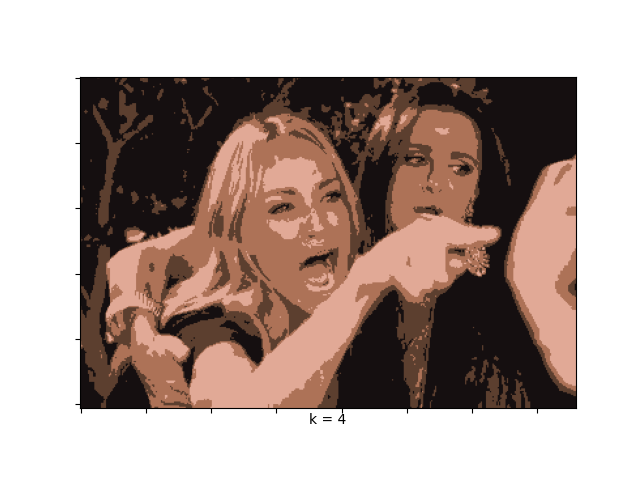
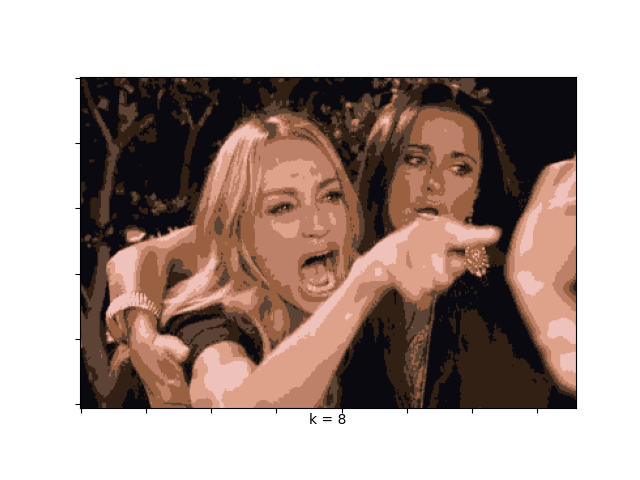
Elbow Method Implementation for choosing optimal K

diff --git a/KMeans_Exp.py b/KMeans_Exp.py
@@ -1,6 +1,7 @@
 from KMeans import KMeans
 import numpy as np
 import matplotlib.pyplot as plt
+from scipy.spatial.distance import cdist
 
 
 #=-=-=-=-=-=-=-=-=-=-
@@ -9,11 +10,11 @@ import matplotlib.pyplot as plt
 classA = -2 * np.random.rand(80,2).T
 classB = 1 + 2 * np.random.rand(40,2).T
 classC = 3 + 2 * np.random.rand(40,2).T
-print(classA,classB,classC)
+# print(classA,classB,classC)
 X = np.concatenate((classA, classB), axis=1)
 X = np.concatenate((X, classC), axis=1).T
 
-o = np.array([[-2, 2],[1, 3.5],[3, 5]]) #initialize centroids
+o = np.array([[-2, 2],[1, 3.5]]) #initialize centroids
 
 #=-=-=-=-=-=-=-=-=-=-
 #   Create and train
@@ -21,18 +22,35 @@ o = np.array([[-2, 2],[1, 3.5],[3, 5]]) #initialize centroids
 #=-=-=-=-=-=-=-=-=-=-
 
 # Three clusters with predefined intial centroid positions
-km = KMeans(n_clus = 3)
-km.fit(X, init_state = o)
+# km = KMeans(n_clus = 2)
+# km.fit(X, init_state = o)
 
-# Two clusters with random initialization
-#km = KMeans(n_clus = 2)
-#km.fit(X)
+# # Two clusters with random initialization
+# #km = KMeans(n_clus = 2)
+# #km.fit(X)
 
-#=-=-=-=-=-=-=-=-=-=-
-#   Vizualize final
-#   result and predict
-#   clusters.
-#=-=-=-=-=-=-=-=-=-=-
-point_test = np.array([[2,2], [-2,-2]])
-print(km.predict(point_test))
-km.vizualize('testing')
+# #=-=-=-=-=-=-=-=-=-=-
+# #   Vizualize final
+# #   result and predict
+# #   clusters.
+# #=-=-=-=-=-=-=-=-=-=-
+# point_test = np.array([[2,2], [-2,-2]])
+# print(km.predict(point_test))
+# km.vizualize('testing')
+distortions=[]
+
+
+K=range(1,10)
+for k in K:
+    model = KMeans(n_clus=k)
+    model.fit(X)
+    centriods=model.getCentroids()
+    print(centriods)
+    distortions.append(sum(np.min(cdist(X, centriods,'euclidean'), axis=1)) / X.shape[0])
+print(distortions)
+
+plt.plot(K, distortions, 'bx-')
+plt.xlabel('Values of K')
+plt.ylabel('Distortion')
+plt.title('The Elbow Method using Distortion')
+plt.savefig('./Segmented Images/elbow_method_.png')

diff --git a/K_Means_Seg.py b/K_Means_Seg.py
@@ -1,8 +1,30 @@
-from PIL.Image import Image
 import numpy as np
 import matplotlib.pyplot as plt
 from KMeans import KMeans
 import cv2
+from scipy.spatial.distance import cdist
+
+#Elbow Method
+np.seterr(divide='ignore', invalid='ignore')
+def elbow_method(X):
+
+    distortions=[]
+    K=range(1,10)
+    for k in K:
+        model = KMeans(n_clus=k)
+        model.fit(X)
+        centriods=model.getCentroids()
+        # print(centriods)
+        distortions.append(sum(np.min(cdist(X, centriods,'euclidean'), axis=1)) / X.shape[0])
+    # print(distortions)
+
+    plt.plot(K, distortions, 'bx-')
+    plt.xlabel('Values of K')
+    plt.ylabel('Distortion')
+    plt.title('The Elbow Method using Distortion')
+    plt.savefig('./Segmented Images/elbow_method_.png')
+    plt.clf()
+
 
 #   Image Segmentation
 
@@ -19,16 +41,16 @@ image = cv2.cvtColor(image, cv2.COLOR_BGR2RGB) #Convert to RGB
 X = image.reshape((-1,3))   #Reshape to (Npts, Ndim = 3)
 X = np.float32(X)
 # print(X)
-
+# elbow_method(X)
 # K clusters with random initialization
 # k =4
 km = KMeans(n_clus = k)
 km.fit(X)
 centers = km.getCentroids()
 clusters = km.getClusters()
-
+# print(centers)
+# print(clusters)
 segmented_image = centers[clusters]
-
 segmented_image = segmented_image.reshape((image.shape))
 
 
@@ -36,5 +58,7 @@ plt.imshow((segmented_image).astype(np.uint8))
 plt.xlabel('k = ' + str(k))
 plt.tick_params(labelleft=False, labelbottom=False, labelright=False, labeltop=False)
 plt.savefig("./Segmented Images/kmeans_"+name+".png")
+plt.clf()
 
-# km.vizualize()
+
+

diff --git a/k_means_obj.py b/k_means_obj.py
@@ -6,7 +6,7 @@ import cv2
 BLUE = (0,0,255)
 RED = (255,0,0)
 
-image = cv2.imread("r_b.jpg")
+image = cv2.imread("./Images/trash.jpg")
 # plt.imshow(image)
 
 # Change color to RGB (from BGR)
@@ -17,7 +17,9 @@ pixel_vals = np.float32(pixel_vals)
 
 criteria = (cv2.TERM_CRITERIA_EPS + cv2.TERM_CRITERIA_MAX_ITER, 100, 0.2)
 
-k = 2
+k = 6
+
+
 retval, labels, centers = cv2.kmeans(pixel_vals, k, None, criteria, 10, cv2.KMEANS_RANDOM_CENTERS)
 
 centers = np.uint8(centers)
@@ -26,11 +28,11 @@ segmented_data = centers[labels.flatten()]
 segmented_image = segmented_data.reshape((image.shape))
 labels_reshape = labels.reshape(image.shape[0], image.shape[1])
 
-cluster = 2
+cluster = 4
 
 masked_image = np.copy(image)
 masked_image[labels_reshape == cluster] = [BLUE]
-cv2.imwrite('2_next_obj.png', masked_image)
+cv2.imwrite('./Segmented Images/trash_kmeans.png', masked_image)
 # plt.show()
 
 # plt.savefig('2_next_obj.png')

diff --git a/KMeans.py b/KMeans.py
@@ -39,7 +39,7 @@ class KMeans():
 		plt.scatter(self.X[:,0], self.X[:,1], color = '#333333')
 		Npts, Ndim = self.X.shape
 		Nclus, _ = self.centroids.shape
-
+		print(self.centroids)
 		for k in range(Nclus):
 			plt.scatter(self.centroids[k][0], self.centroids[k][1], marker = "*", color="#4169e1", s=130)
 
@@ -55,7 +55,7 @@ class KMeans():
 		the model will generate random positions.
 		:param max_iter: Maximum number of iterations
 		"""
-		Npts, Ndim = X.shape
+		_, Ndim = X.shape
 		self.X = X
 
 		if init_state is None:
@@ -66,7 +66,6 @@ class KMeans():
 		for i in range(max_iter):
 			diff = cdist(X, self.centroids, metric="euclidean")
 			self.clusters = np.argmin(diff, axis=1)
-
 			for i in range(self.n_clus):
 				check=np.mean(X[np.where(self.clusters == i)] , axis=0)	
 				if math.isnan(check[0]):

diff --git a/RegionGrowingSV.py b/RegionGrowingSV.py
@@ -120,7 +120,7 @@ class regionGrow():
 
 
 
-def Test_Affiche(event,x,y,flags,param):
+def Test(event,x,y,flags,param):
     global points
     if event == cv2.EVENT_RBUTTONDOWN:
         cv2.destroyAllWindows()
@@ -131,7 +131,7 @@ def Test_Affiche(event,x,y,flags,param):
 seeds=[]
 example = regionGrow(sys.argv[1],sys.argv[2])
 cv2.namedWindow('image')
-cv2.setMouseCallback('image',Test_Affiche)
+cv2.setMouseCallback('image',Test)
 cv2.imshow('image',cv2.imread(sys.argv[1],1))
 cv2.waitKey(0)
 
